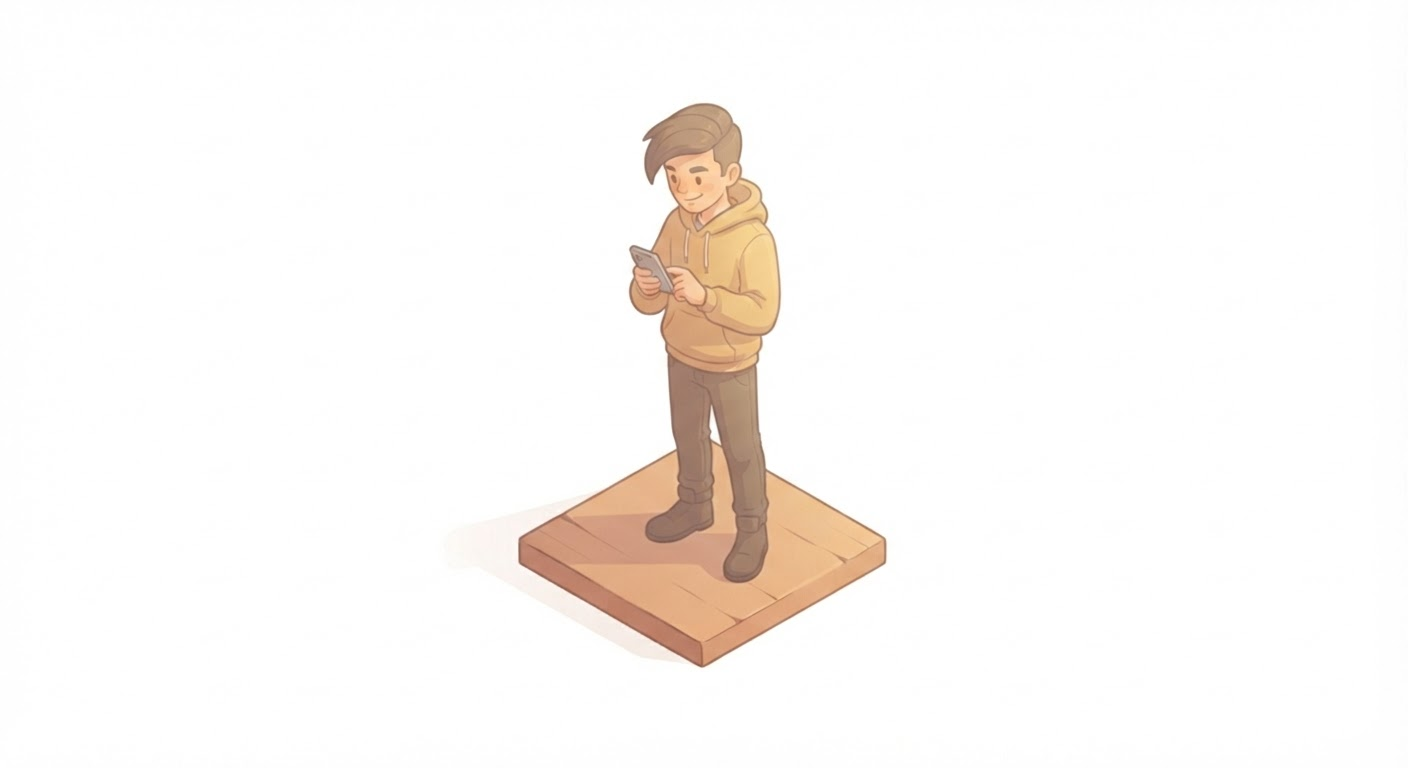
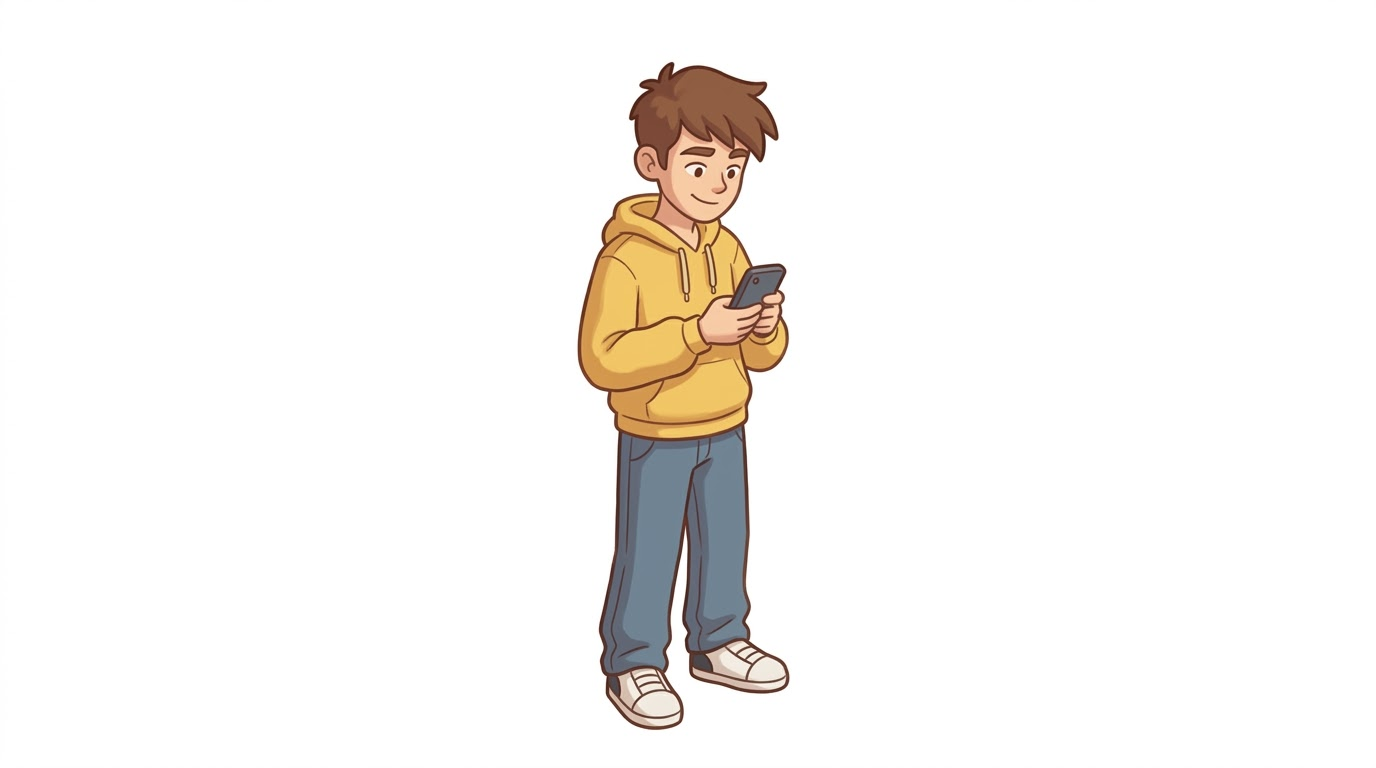
Gente isométrica sin base (vos, Lelo, empleado y empleada)
Claude-Session: https://claude.ai/code/session_01PaJ1Pz1NFr1YEzybRjznEh

Changed region(s): [[0.3438, 0.0625, 0.6562, 0.9688]]

diff --git a/docs/PROMPTS.md b/docs/PROMPTS.md
@@ -96,32 +96,3 @@ Ilustración isométrica a 30 grados, estilo maqueta de juguete con colores plan
 ```
 Ilustración isométrica a 30 grados, estilo maqueta de juguete con colores planos y cálidos, luz desde arriba a la izquierda, sombras suaves de un tono, contornos suaves, vista desde la esquina inferior izquierda, un solo objeto centrado y aislado, fondo blanco liso, sin texto ni letras. Una pila de cajas de cartón cerradas con mercadería, algunas con cinta de embalar.
 ```
-
-### Gente (de pie, misma escala que las máquinas)
-
-La gente camina por el taller, así que va **sin base de madera debajo** (las máquinas sí pueden tenerla).
-
-**Vos (hombre)**
-```
-Ilustración isométrica a 30 grados, estilo maqueta de juguete con colores planos y cálidos, luz desde arriba a la izquierda, sombras suaves de un tono, contornos suaves, vista desde la esquina inferior izquierda, un solo objeto centrado y aislado, fondo blanco liso, sin texto ni letras. Solo la persona, sin mesa, sin muebles y sin base ni plataforma debajo: un joven de unos 19 años con delantal de trabajo, de pie, sosteniendo una taza recién sublimada.
-```
-
-**Vos (mujer)**
-```
-Ilustración isométrica a 30 grados, estilo maqueta de juguete con colores planos y cálidos, luz desde arriba a la izquierda, sombras suaves de un tono, contornos suaves, vista desde la esquina inferior izquierda, un solo objeto centrado y aislado, fondo blanco liso, sin texto ni letras. Solo la persona, sin mesa, sin muebles y sin base ni plataforma debajo: una joven de unos 19 años con delantal de trabajo y el pelo atado, de pie, sosteniendo una taza recién sublimada.
-```
-
-**Lelo**
-```
-Ilustración isométrica a 30 grados, estilo maqueta de juguete con colores planos y cálidos, luz desde arriba a la izquierda, sombras suaves de un tono, contornos suaves, vista desde la esquina inferior izquierda, un solo objeto centrado y aislado, fondo blanco liso, sin texto ni letras. Solo la persona, sin base ni plataforma debajo: un joven de 19 años con flequillo y buzo con capucha amarillo, de pie, mirando el celular con sonrisa canchera.
-```
-
-**Empleado**
-```
-Ilustración isométrica a 30 grados, estilo maqueta de juguete con colores planos y cálidos, luz desde arriba a la izquierda, sombras suaves de un tono, contornos suaves, vista desde la esquina inferior izquierda, un solo objeto centrado y aislado, fondo blanco liso, sin texto ni letras. Solo la persona, sin base ni plataforma debajo: un hombre joven con delantal azul y gorra, de pie, cargando una remera recién estampada.
-```
-
-**Empleada**
-```
-Ilustración isométrica a 30 grados, estilo maqueta de juguete con colores planos y cálidos, luz desde arriba a la izquierda, sombras suaves de un tono, contornos suaves, vista desde la esquina inferior izquierda, un solo objeto centrado y aislado, fondo blanco liso, sin texto ni letras. Solo la persona, sin base ni plataforma debajo: una mujer joven con delantal azul y el pelo atado, de pie, sosteniendo una taza recién sublimada con guantes térmicos.
-```
